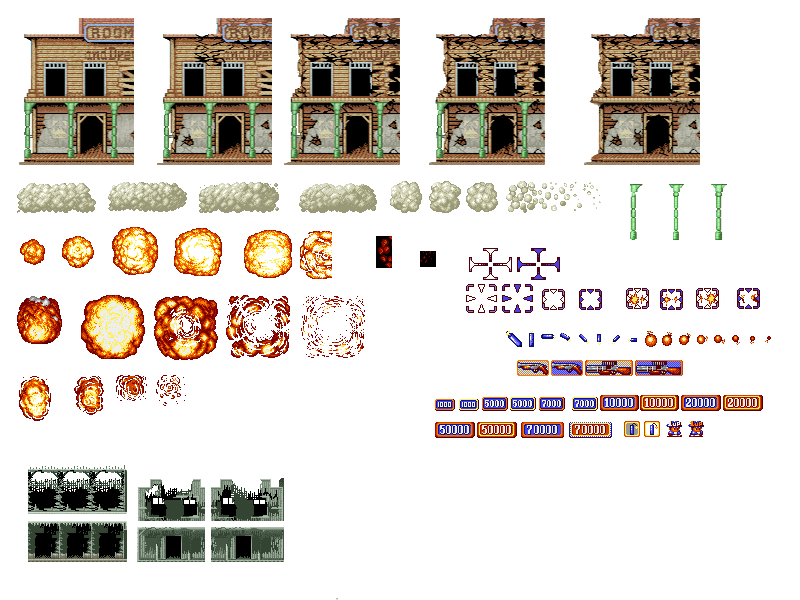
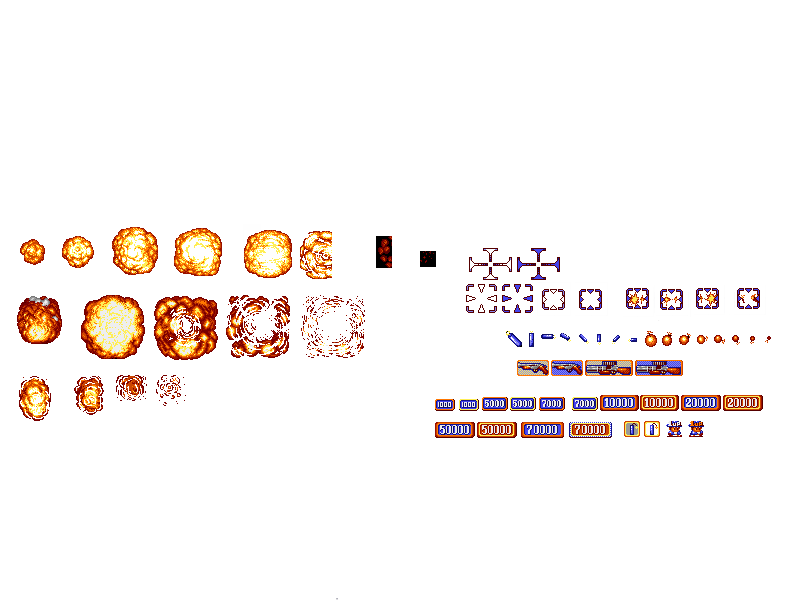
level1 scene update
new buildings, and PNG files changed

Changed region(s): [[0.0, 0.03, 0.9062, 0.39], [0.0312, 0.78, 0.375, 0.96], [0.7812, 0.48, 0.8125, 0.51]]

diff --git a/Goodbros/ModuleAim.cpp b/Goodbros/ModuleAim.cpp
@@ -23,8 +23,12 @@ ModuleAim::ModuleAim()
 	Aimshoot.PushBack({ 660, 289, 23, 21 });
 	Aimshoot.PushBack({ 696, 288, 23, 21 });
 	Aimshoot.PushBack({ 737, 288, 23, 21 });
-	Aimshoot.speed = 0.2f;
+	Aimshoot.PushBack({ 542, 289, 23, 21 });
+	Aimshoot.PushBack({ 579, 289, 23, 31 });
+	Aimshoot.PushBack({ 542, 289, 23, 21 });
+	Aimshoot.speed = 0.4f;
 	Aimshoot.loop = true;
+
 
 	
 }

diff --git a/Goodbros/ModuleSceneFirst.cpp b/Goodbros/ModuleSceneFirst.cpp
@@ -24,7 +24,7 @@ bool ModuleSceneFirst::Start()
 {
 	LOG("Loading space scene");
 	
-	background = App->textures->Load("bloodbros/stage1_clean.png");
+	background = App->textures->Load("bloodbros/level1destroyed.png");
 
 	App->audio->Enable(1);
 	App->player->Enable(0);
